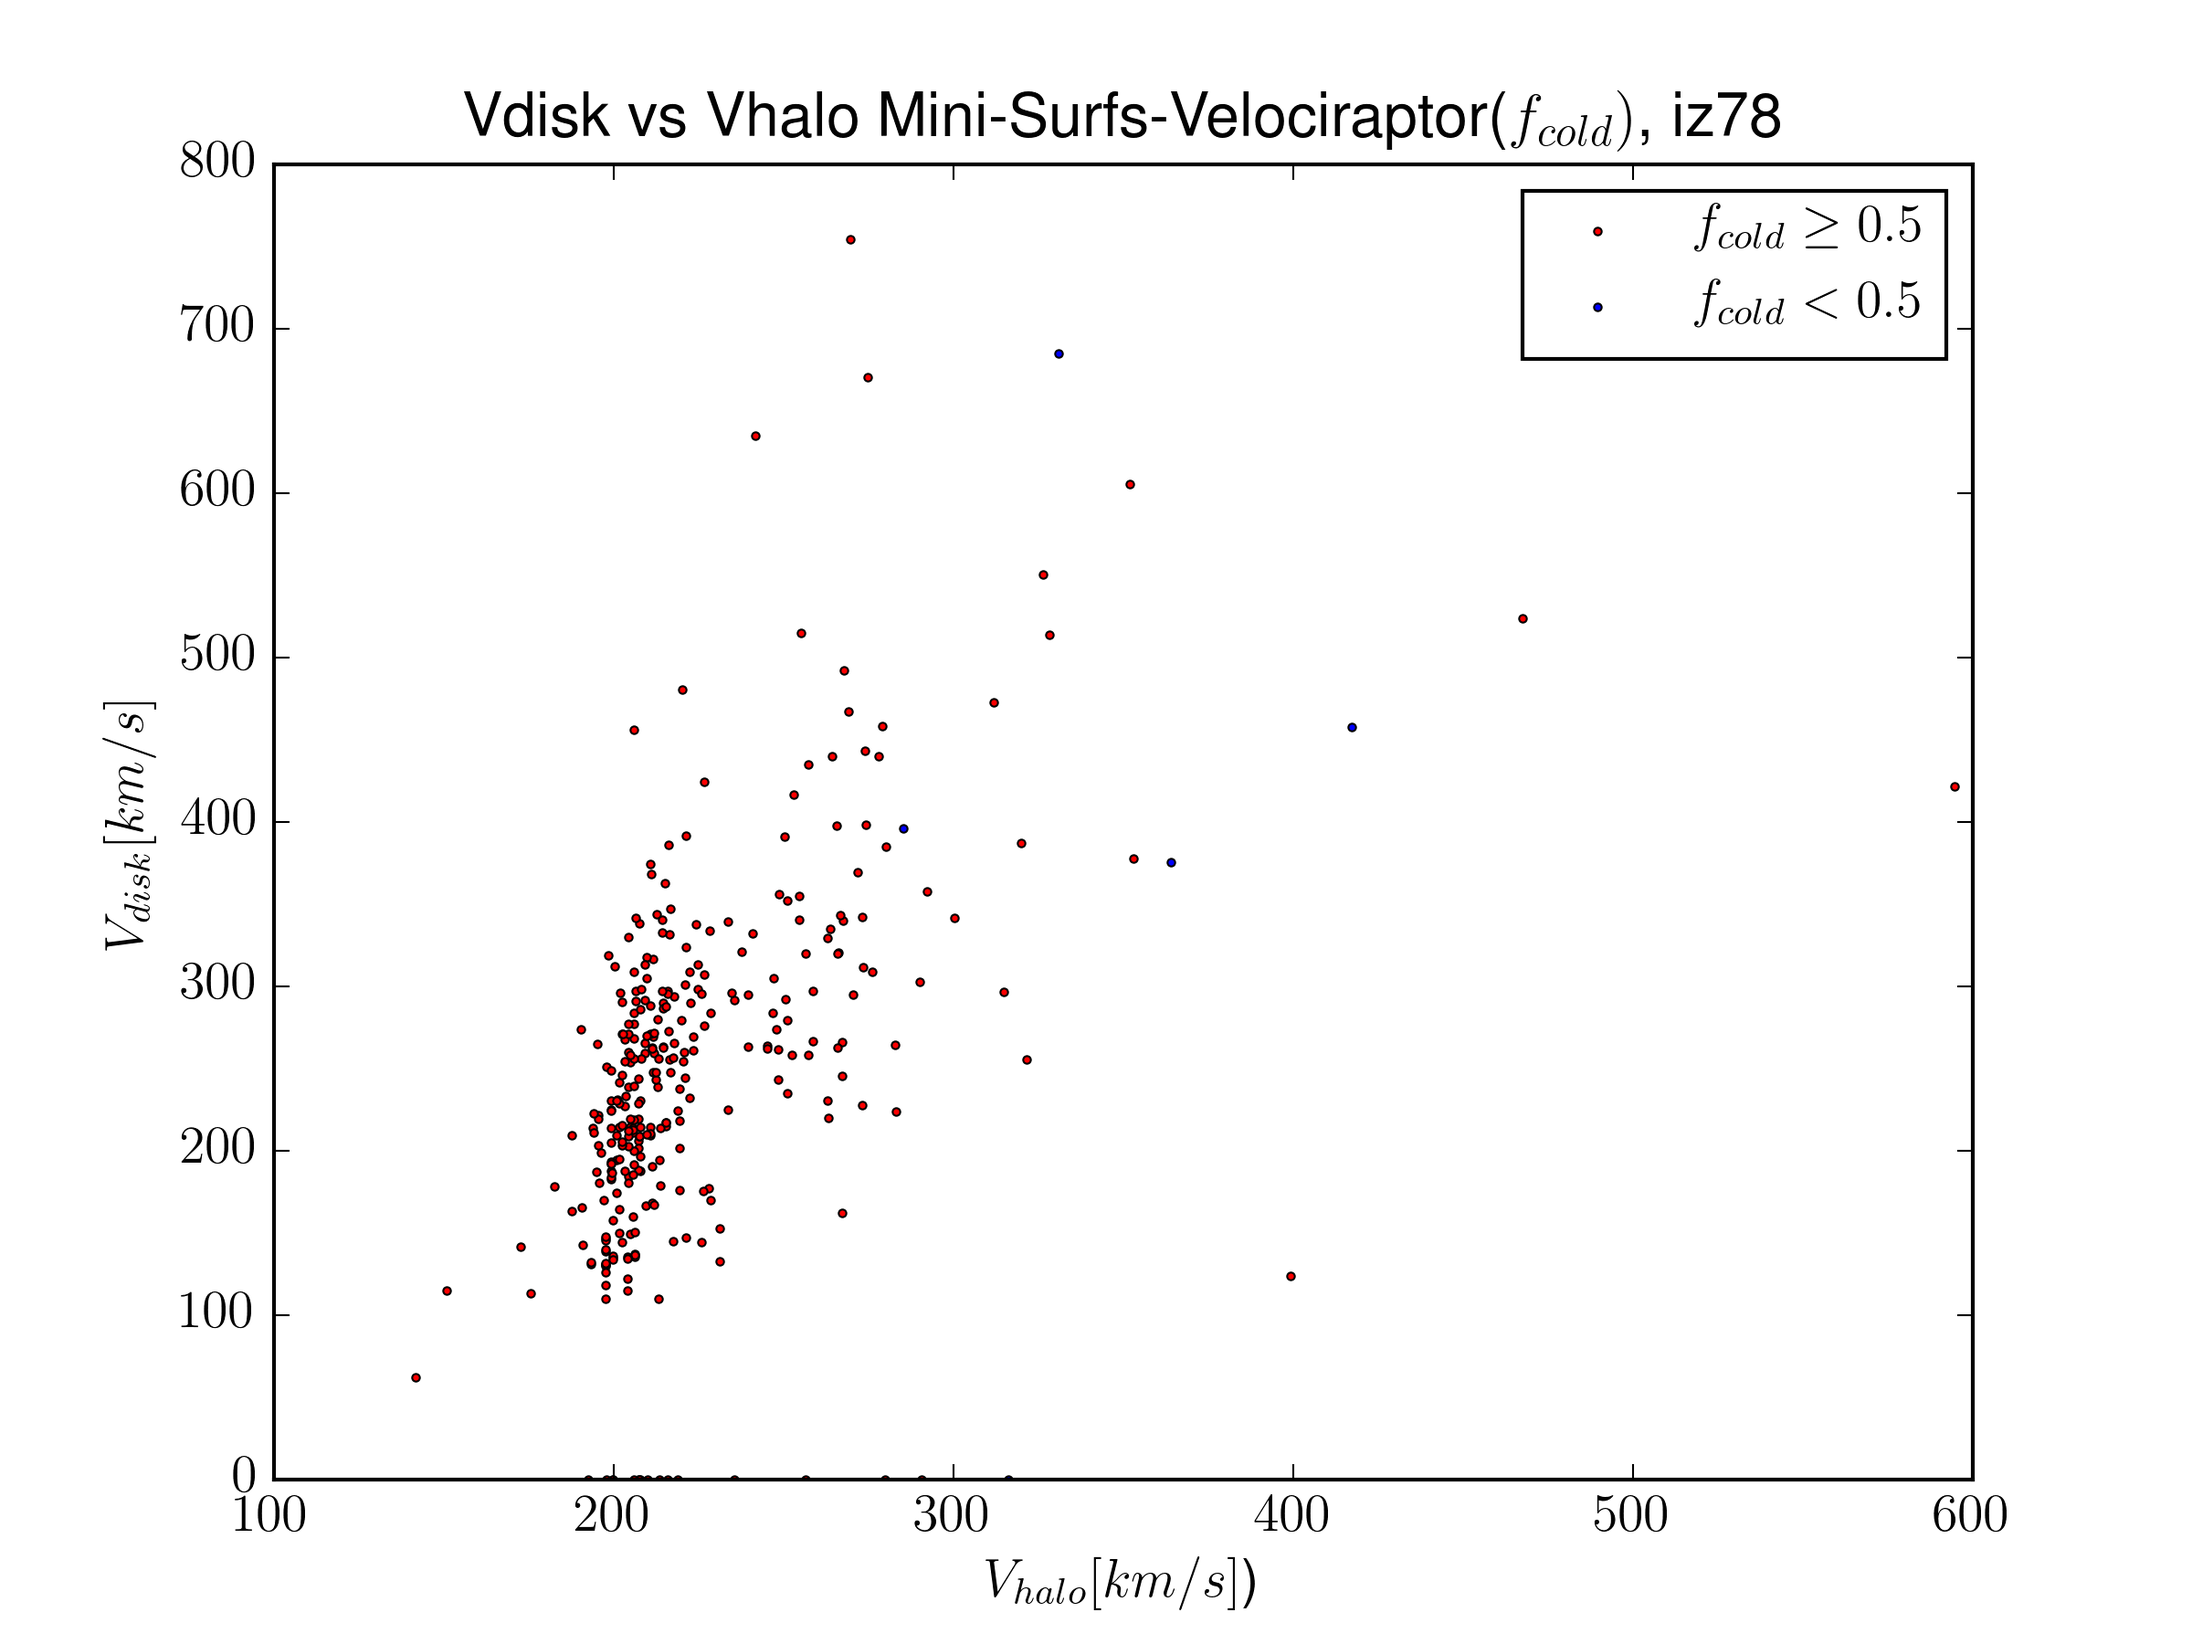
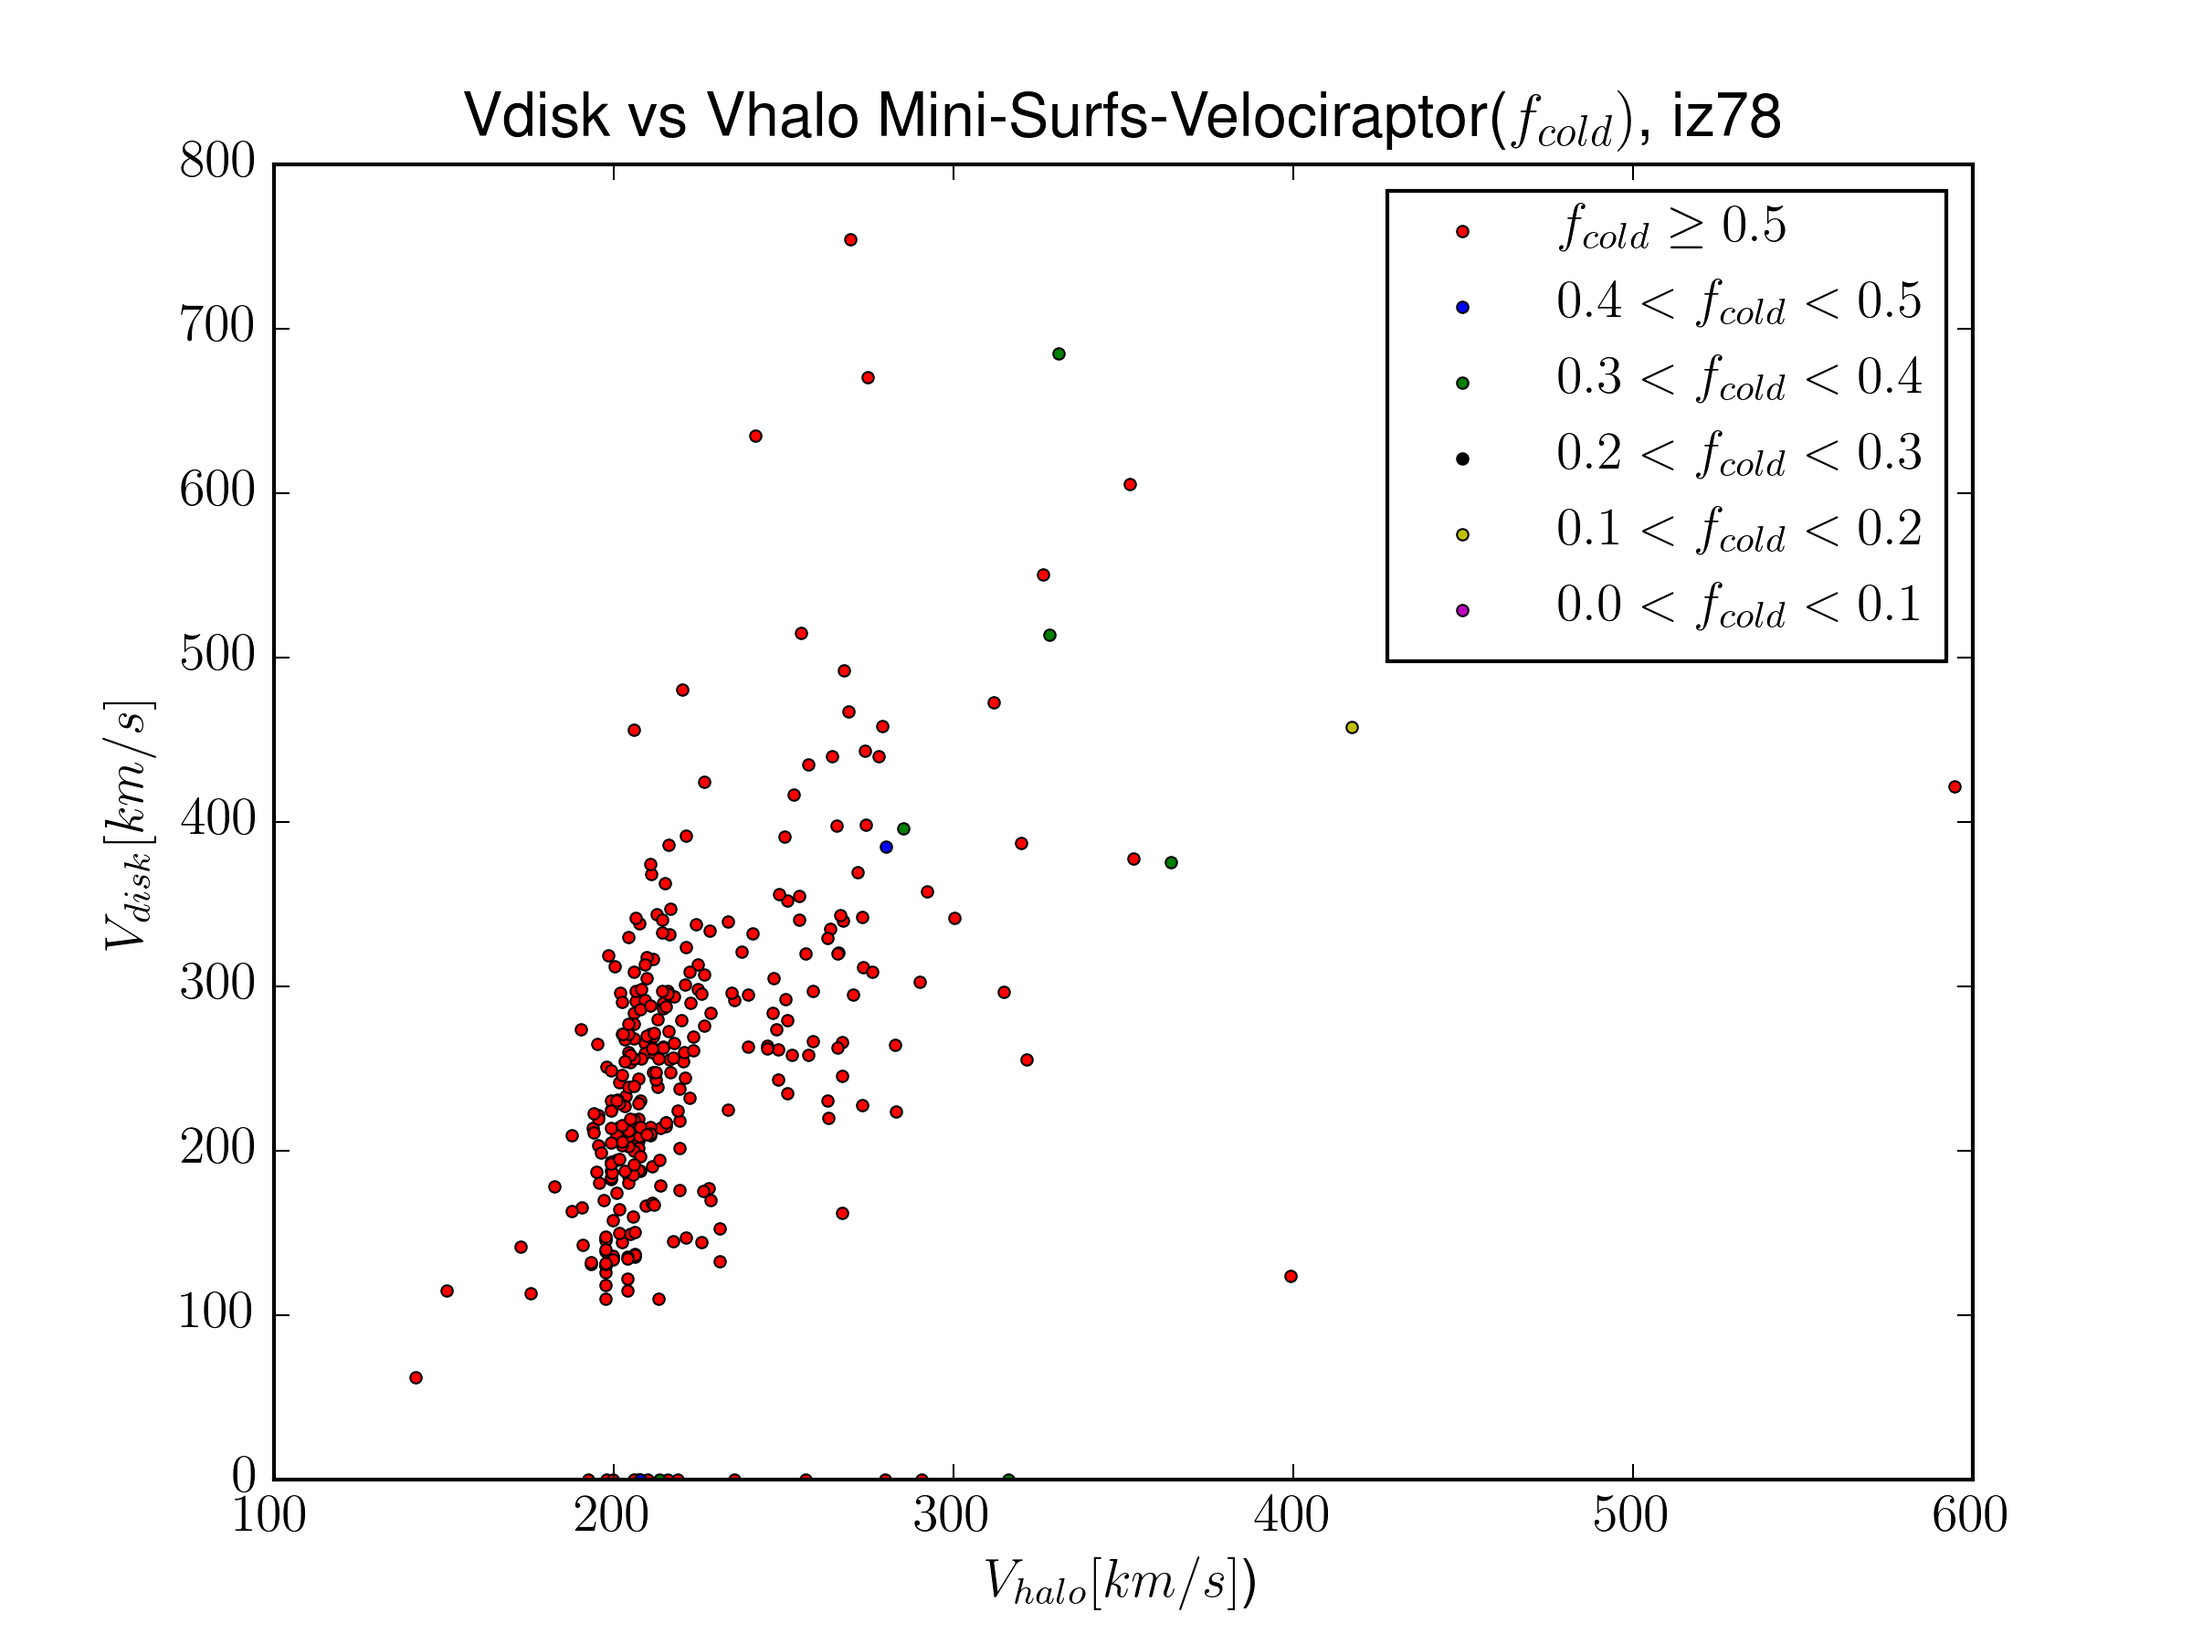
plots of fcold and velocities corrected

diff --git a/plot3.py b/plot3.py
@@ -1,10 +1,9 @@
 from __future__ import print_function
 import numpy as np
 import h5py
-import matplotlib.pyplot as plt
 import matplotlib
 matplotlib.use('Agg')
-
+import matplotlib.pyplot as plt
 
 #redshift list
 redshifts=['iz200','iz174','iz156','iz142','iz131','iz113','iz99','iz78']
@@ -117,18 +116,30 @@ for i in range(0,len(redshifts)):
         mcold_cooling_t   =mcold_cooling_t[1:]
         mcold_major_t     =mcold_major_t[1:]
         mcold_minor_t     =mcold_minor_t[1:]
-        mstars_disk_t     =mstars_disk_t[1:]
-        mstars_bulge_t    =mstars_bulge_t[1:]
+        mcold_mol_bulge_t = mcold_mol_bulge_t[1:]      
+        mcold_recycle_t   = mcold_recycle_t[1:]  
+        mhalo_t           = mhalo_t[1:]          
+        mhhalo_t          = mhhalo_t[1:]         
+        mhot_t            = mhot_t[1:]           
+        mstars_allburst_t = mstars_allburst_t[1:]
+        mstars_bulge_t    = mstars_bulge_t[1:]   
+        mstars_burst_t    = mstars_burst_t[1:]   
+        mstars_disk_t     = mstars_disk_t[1:]    
+        vdisk_t           = vdisk_t[1:]          
+        vhalo_t           = vhalo_t[1:]          
+
+
+        mdisk_total       = mcold_t + mstars_disk_t
+        mbulge_total      = mstars_bulge_t + mcold_burst_t
+        mtotal            = mdisk_total+mbulge_total
+       
+
+        mcold_total       = mcold_t + mcold_burst_t
         mstars_total      =mstars_bulge_t+mstars_disk_t
-        mcold_total       =mcold_t+mcold_atom_t+mcold_atom_bulge_t+mcold_burst_t+mcold_cooling_t+mcold_major_t+mcold_minor_t
-        mtotal            =mstars_total+mcold_total 
+        
         id0=(mtotal>0)
         fcold=mcold_total[id0]/mtotal[id0]
 
-        vhalo_t           =vhalo_t[1:]
-        vhalo_t           =vhalo_t[id0]
-        vdisk_t           =vdisk_t[1:]
-        vdisk_t           =vdisk_t[id0]
        # ranges
         vhalo_t_min=np.amin(vhalo_t)
         vhalo_t_max=np.amax(vhalo_t)
@@ -136,8 +147,12 @@ for i in range(0,len(redshifts)):
         vdisk_t_max=np.amax(vdisk_t)
 
 
-        idx1=(fcold>=0.5)
-        idx2=(fcold<0.5)
+        idx1=(fcold>0.5)
+        idx2=(0.4<fcold) & (fcold<0.5)
+        idx3=(0.3<fcold) & (fcold<0.4)
+        idx4=(0.2<fcold) & (fcold<0.3)
+        idx5=(0.1<fcold) & (fcold<0.2)
+        idx6=(0.0<fcold) & (fcold<0.1)
 
         vdisk_min=np.amin(vdisk_t)
         vdisk_max=np.amax(vdisk_t)
@@ -151,8 +166,12 @@ for i in range(0,len(redshifts)):
         n_data1=np.shape(vdisk_t)[0]
 
 	     
-        axs.plot(vhalo_t[idx1],vdisk_t[idx1],'or',label=r"$f_{cold}\geq 0.5$",markersize =2)
-        axs.plot(vhalo_t[idx2],vdisk_t[idx2],'ob',label=r"$f_{cold}< 0.5$",markersize =2)
+        axs.plot(vhalo_t[idx1],vdisk_t[idx1],'or',label=r"$f_{cold}\geq 0.5$",markersize =3)
+        axs.plot(vhalo_t[idx2],vdisk_t[idx2],'ob',label=r"$0.4<f_{cold}< 0.5$",markersize =3)
+        axs.plot(vhalo_t[idx3],vdisk_t[idx3],'og',label=r"$0.3<f_{cold}< 0.4$",markersize =3)
+        axs.plot(vhalo_t[idx4],vdisk_t[idx4],'ok',label=r"$0.2<f_{cold}< 0.3$",markersize =3)
+        axs.plot(vhalo_t[idx5],vdisk_t[idx5],'oy',label=r"$0.1<f_{cold}< 0.2$",markersize =3)
+        axs.plot(vhalo_t[idx6],vdisk_t[idx6],'om',label=r"$0.0<f_{cold}< 0.1$",markersize =3)
         handles, labels = axs.get_legend_handles_labels()
         axs.legend(handles, labels, numpoints=1, loc='upper right') 
 
